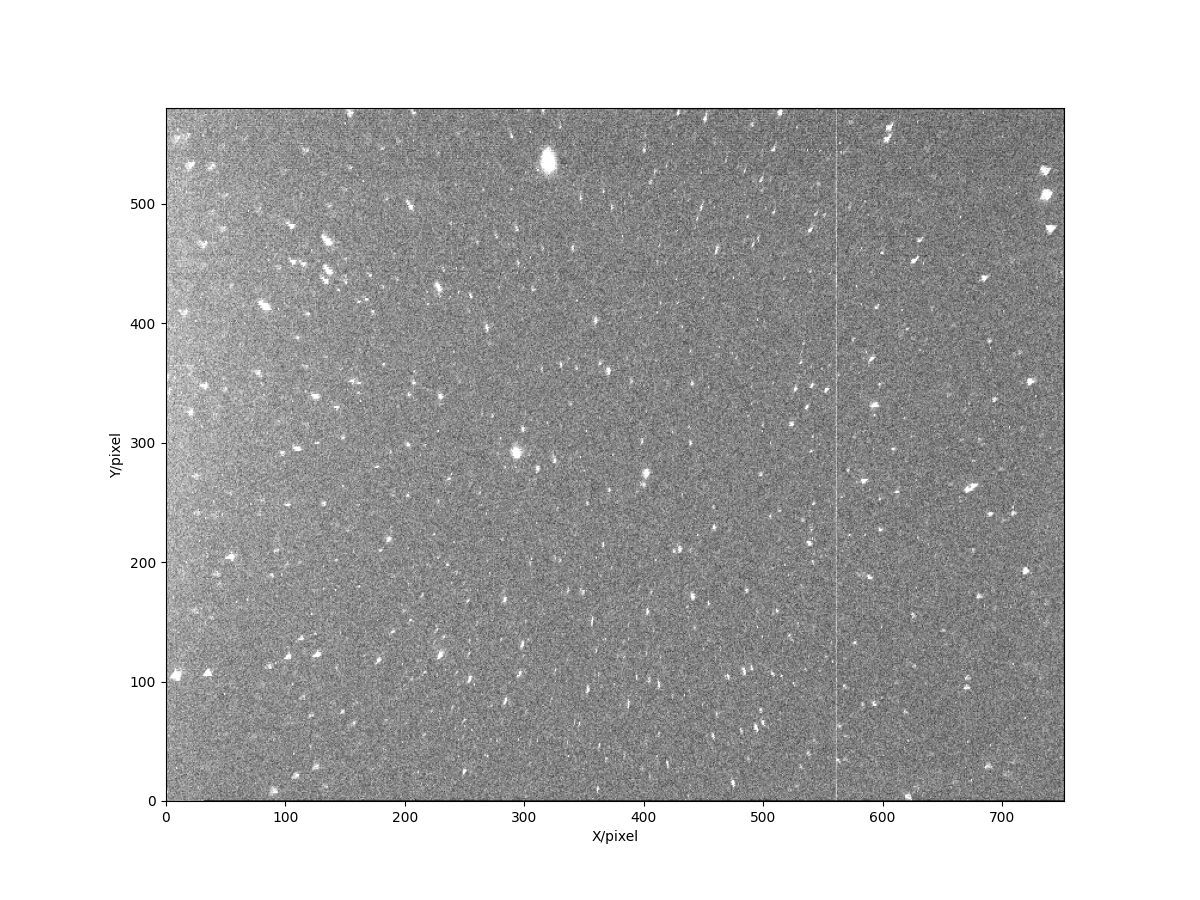
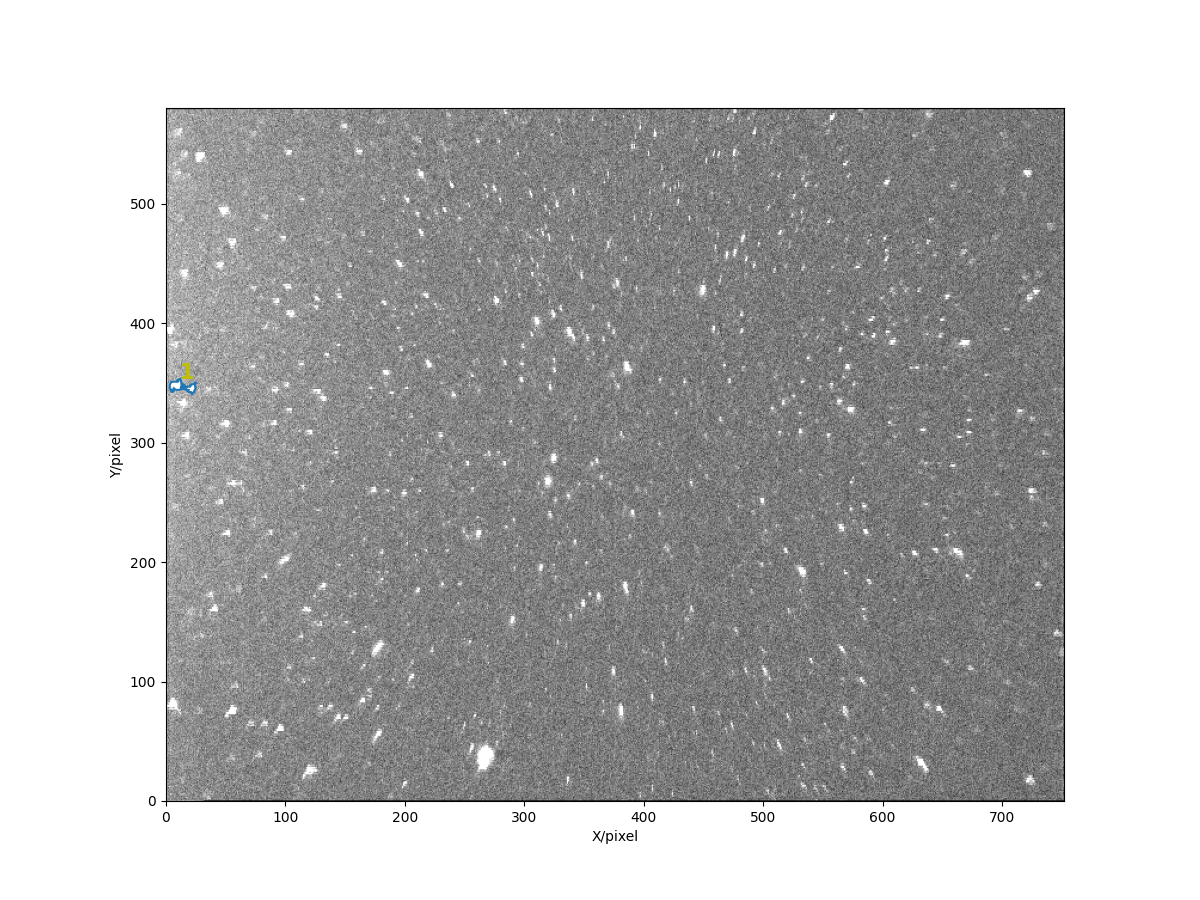
testing

Changed region(s): [[0.1233, 0.1244, 0.8942, 0.9022]]

diff --git a/astride/test/run.py b/astride/test/run.py
@@ -17,7 +17,7 @@ def test():
    # file_path = join(module_path, '../datasets/samples', 'long.fits')
    # streak = Streak(file_path, output_path='./long/')
 
-    file_path = join(module_path, '../datasets/images', 'swarmstreak2.fits')
+    file_path = join(module_path, '../datasets/images', 'swarmstreak3.fits')
     streak = Streak(file_path, output_path='./long/')
 
     # file_path = '/Users/kim/Temp/hst_13003_54_wfc3_ir_f110w_drz_saved.fits'
